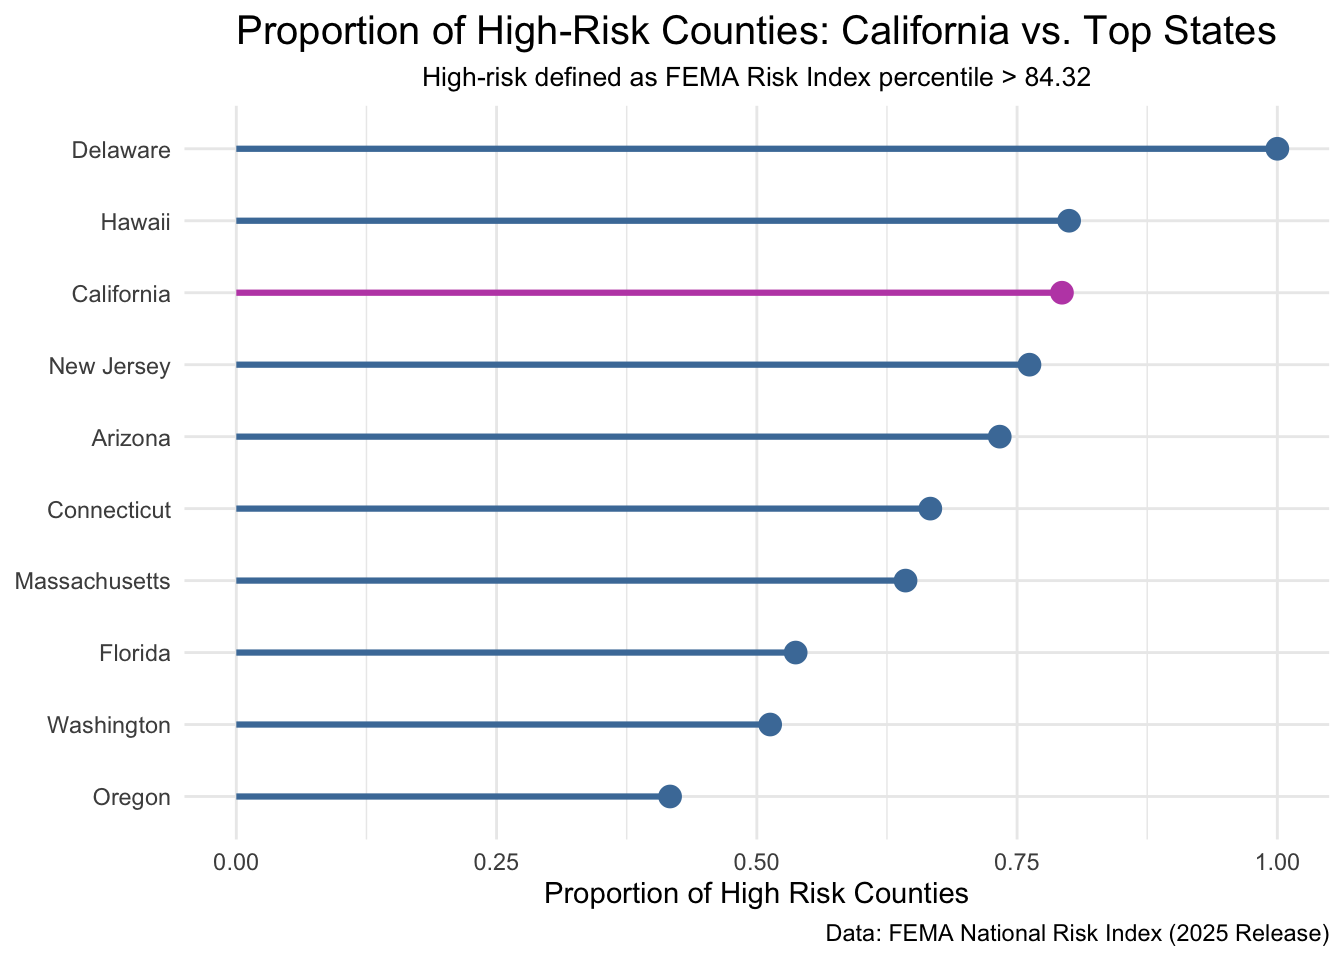
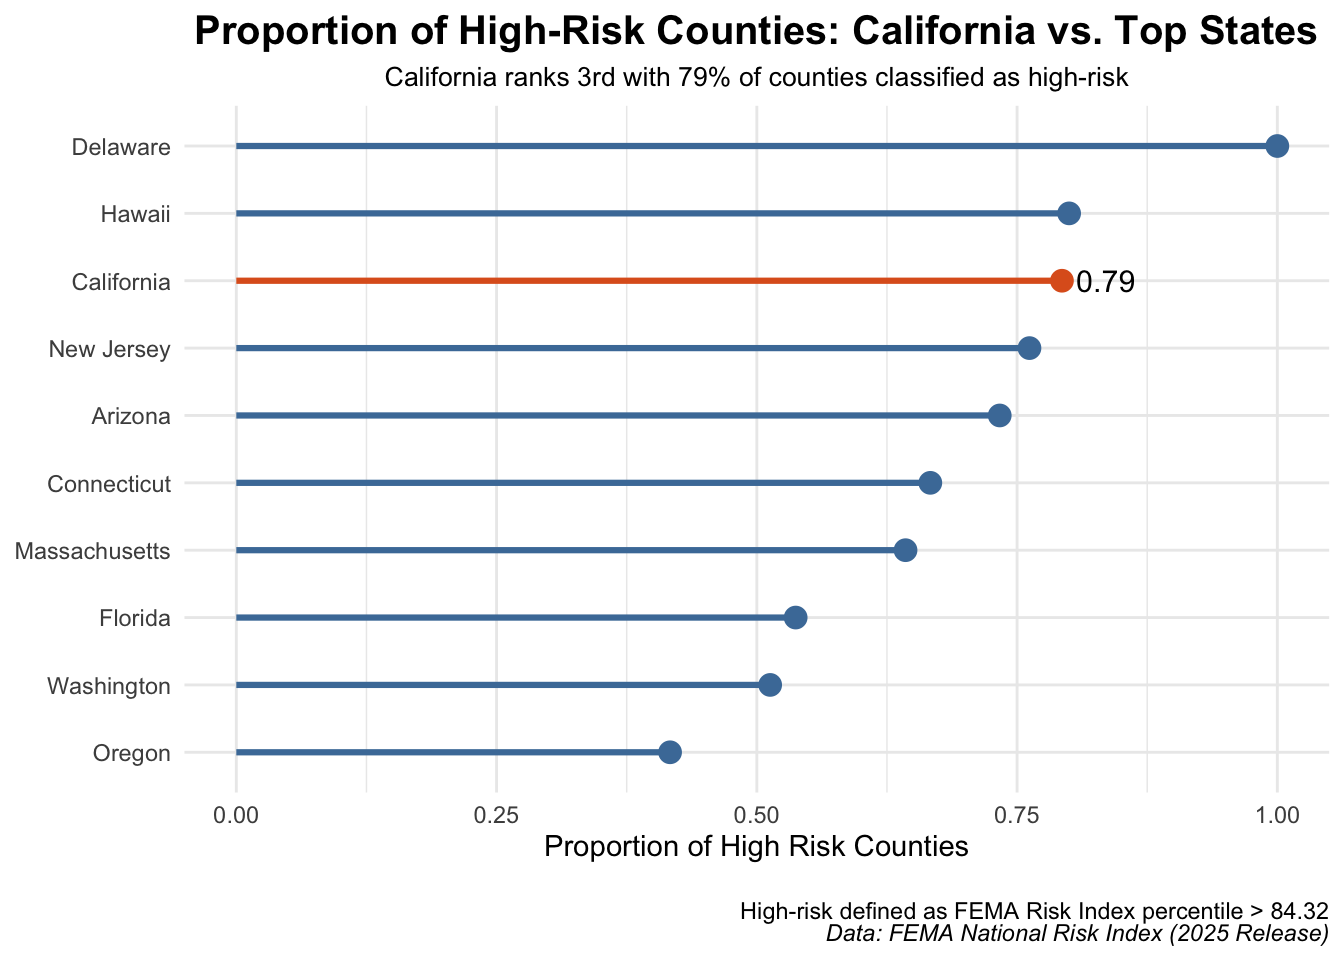
Remove DS store.

diff --git a/HW2.html b/HW2.html
@@ -130,42 +130,44 @@ pre > code.sourceCode > span > a:first-child::before { text-decoration: underlin
 <span id="cb1-7"><a href="#cb1-7" aria-hidden="true" tabindex="-1"></a><span class="fu">library</span>(here)</span>
 <span id="cb1-8"><a href="#cb1-8" aria-hidden="true" tabindex="-1"></a><span class="fu">library</span>(ggplot2)</span>
 <span id="cb1-9"><a href="#cb1-9" aria-hidden="true" tabindex="-1"></a><span class="fu">library</span>(janitor)</span>
-<span id="cb1-10"><a href="#cb1-10" aria-hidden="true" tabindex="-1"></a></span>
-<span id="cb1-11"><a href="#cb1-11" aria-hidden="true" tabindex="-1"></a><span class="co">#..........................import data...........................</span></span>
-<span id="cb1-12"><a href="#cb1-12" aria-hidden="true" tabindex="-1"></a> nri_df <span class="ot">&lt;-</span> <span class="fu">read_csv</span>(here<span class="sc">::</span><span class="fu">here</span>(<span class="st">"data"</span>, <span class="st">"National_Risk_Index_Counties_807384124455672111.csv"</span>)) <span class="sc">%&gt;%</span> </span>
-<span id="cb1-13"><a href="#cb1-13" aria-hidden="true" tabindex="-1"></a>   <span class="fu">clean_names</span>()</span>
-<span id="cb1-14"><a href="#cb1-14" aria-hidden="true" tabindex="-1"></a> </span>
-<span id="cb1-15"><a href="#cb1-15" aria-hidden="true" tabindex="-1"></a></span>
-<span id="cb1-16"><a href="#cb1-16" aria-hidden="true" tabindex="-1"></a><span class="do">##~~~~~~~~~~~~~~~~~~~~~~~~~~~~~~~~~~~~~~~~~~~~~~~~~~~~~~~~~~~~~~~~~~~~~~~~~~~~~~</span></span>
-<span id="cb1-17"><a href="#cb1-17" aria-hidden="true" tabindex="-1"></a><span class="do">##                            wrangle nri data                         </span></span>
+<span id="cb1-10"><a href="#cb1-10" aria-hidden="true" tabindex="-1"></a><span class="fu">library</span>(ARTofR)</span>
+<span id="cb1-11"><a href="#cb1-11" aria-hidden="true" tabindex="-1"></a><span class="fu">library</span>(ggtext)</span>
+<span id="cb1-12"><a href="#cb1-12" aria-hidden="true" tabindex="-1"></a></span>
+<span id="cb1-13"><a href="#cb1-13" aria-hidden="true" tabindex="-1"></a><span class="co">#..........................import data...........................</span></span>
+<span id="cb1-14"><a href="#cb1-14" aria-hidden="true" tabindex="-1"></a> nri_df <span class="ot">&lt;-</span> <span class="fu">read_csv</span>(here<span class="sc">::</span><span class="fu">here</span>(<span class="st">"data"</span>, <span class="st">"National_Risk_Index_Counties_807384124455672111.csv"</span>)) <span class="sc">%&gt;%</span> </span>
+<span id="cb1-15"><a href="#cb1-15" aria-hidden="true" tabindex="-1"></a>   <span class="fu">clean_names</span>()</span>
+<span id="cb1-16"><a href="#cb1-16" aria-hidden="true" tabindex="-1"></a> </span>
+<span id="cb1-17"><a href="#cb1-17" aria-hidden="true" tabindex="-1"></a></span>
 <span id="cb1-18"><a href="#cb1-18" aria-hidden="true" tabindex="-1"></a><span class="do">##~~~~~~~~~~~~~~~~~~~~~~~~~~~~~~~~~~~~~~~~~~~~~~~~~~~~~~~~~~~~~~~~~~~~~~~~~~~~~~</span></span>
-<span id="cb1-19"><a href="#cb1-19" aria-hidden="true" tabindex="-1"></a></span>
-<span id="cb1-20"><a href="#cb1-20" aria-hidden="true" tabindex="-1"></a> nri_2 <span class="ot">&lt;-</span> nri_df <span class="sc">%&gt;%</span></span>
-<span id="cb1-21"><a href="#cb1-21" aria-hidden="true" tabindex="-1"></a>   <span class="co"># Filter for only US states</span></span>
-<span id="cb1-22"><a href="#cb1-22" aria-hidden="true" tabindex="-1"></a>   <span class="fu">filter</span>(<span class="sc">!</span>state_name <span class="sc">%in%</span> <span class="fu">c</span>(</span>
-<span id="cb1-23"><a href="#cb1-23" aria-hidden="true" tabindex="-1"></a>       <span class="st">"Puerto Rico"</span>,</span>
-<span id="cb1-24"><a href="#cb1-24" aria-hidden="true" tabindex="-1"></a>       <span class="st">"Guam"</span>,</span>
-<span id="cb1-25"><a href="#cb1-25" aria-hidden="true" tabindex="-1"></a>       <span class="st">"Virgin Islands"</span>,</span>
-<span id="cb1-26"><a href="#cb1-26" aria-hidden="true" tabindex="-1"></a>       <span class="st">"Northern Mariana Islands"</span>,</span>
-<span id="cb1-27"><a href="#cb1-27" aria-hidden="true" tabindex="-1"></a>       <span class="st">"American Samoa"</span>,</span>
-<span id="cb1-28"><a href="#cb1-28" aria-hidden="true" tabindex="-1"></a>       <span class="st">"District of Columbia"</span></span>
-<span id="cb1-29"><a href="#cb1-29" aria-hidden="true" tabindex="-1"></a>     )</span>
-<span id="cb1-30"><a href="#cb1-30" aria-hidden="true" tabindex="-1"></a>   ) <span class="sc">%&gt;%</span></span>
-<span id="cb1-31"><a href="#cb1-31" aria-hidden="true" tabindex="-1"></a>   <span class="co"># Group by state</span></span>
-<span id="cb1-32"><a href="#cb1-32" aria-hidden="true" tabindex="-1"></a>   <span class="fu">group_by</span>(state_name) <span class="sc">%&gt;%</span></span>
-<span id="cb1-33"><a href="#cb1-33" aria-hidden="true" tabindex="-1"></a>   <span class="co"># Count the total number of counties</span></span>
-<span id="cb1-34"><a href="#cb1-34" aria-hidden="true" tabindex="-1"></a>   <span class="fu">summarize</span>(</span>
-<span id="cb1-35"><a href="#cb1-35" aria-hidden="true" tabindex="-1"></a>     <span class="at">total_counties =</span> <span class="fu">n</span>(),</span>
-<span id="cb1-36"><a href="#cb1-36" aria-hidden="true" tabindex="-1"></a>     <span class="co"># Sum the counties considered high risk (percentile &gt; 84.32)</span></span>
-<span id="cb1-37"><a href="#cb1-37" aria-hidden="true" tabindex="-1"></a>     <span class="at">high_risk_counties =</span> <span class="fu">sum</span>(</span>
-<span id="cb1-38"><a href="#cb1-38" aria-hidden="true" tabindex="-1"></a>       national_risk_index_state_percentile_composite <span class="sc">&gt;</span> <span class="fl">84.32</span>,</span>
-<span id="cb1-39"><a href="#cb1-39" aria-hidden="true" tabindex="-1"></a>       <span class="at">na.rm =</span> <span class="cn">TRUE</span> <span class="co"># remove Nas</span></span>
-<span id="cb1-40"><a href="#cb1-40" aria-hidden="true" tabindex="-1"></a>     ),</span>
-<span id="cb1-41"><a href="#cb1-41" aria-hidden="true" tabindex="-1"></a>     <span class="co"># Find the proportion of high risk in each county</span></span>
-<span id="cb1-42"><a href="#cb1-42" aria-hidden="true" tabindex="-1"></a>     <span class="at">prop_high_risk_counties =</span> high_risk_counties <span class="sc">/</span> total_counties</span>
-<span id="cb1-43"><a href="#cb1-43" aria-hidden="true" tabindex="-1"></a>   ) <span class="sc">%&gt;%</span></span>
-<span id="cb1-44"><a href="#cb1-44" aria-hidden="true" tabindex="-1"></a>   <span class="co"># Create boolean column for data visualizing later </span></span>
-<span id="cb1-45"><a href="#cb1-45" aria-hidden="true" tabindex="-1"></a>   <span class="fu">mutate</span>(<span class="at">ca_true_false =</span> state_name <span class="sc">==</span> <span class="st">"California"</span>)</span></code></pre></div><button title="Copy to Clipboard" class="code-copy-button"><i class="bi"></i></button></div>
+<span id="cb1-19"><a href="#cb1-19" aria-hidden="true" tabindex="-1"></a><span class="do">##                            wrangle nri data                         </span></span>
+<span id="cb1-20"><a href="#cb1-20" aria-hidden="true" tabindex="-1"></a><span class="do">##~~~~~~~~~~~~~~~~~~~~~~~~~~~~~~~~~~~~~~~~~~~~~~~~~~~~~~~~~~~~~~~~~~~~~~~~~~~~~~</span></span>
+<span id="cb1-21"><a href="#cb1-21" aria-hidden="true" tabindex="-1"></a></span>
+<span id="cb1-22"><a href="#cb1-22" aria-hidden="true" tabindex="-1"></a> nri_2 <span class="ot">&lt;-</span> nri_df <span class="sc">%&gt;%</span></span>
+<span id="cb1-23"><a href="#cb1-23" aria-hidden="true" tabindex="-1"></a>   <span class="co"># Filter for only US states</span></span>
+<span id="cb1-24"><a href="#cb1-24" aria-hidden="true" tabindex="-1"></a>   <span class="fu">filter</span>(<span class="sc">!</span>state_name <span class="sc">%in%</span> <span class="fu">c</span>(</span>
+<span id="cb1-25"><a href="#cb1-25" aria-hidden="true" tabindex="-1"></a>       <span class="st">"Puerto Rico"</span>,</span>
+<span id="cb1-26"><a href="#cb1-26" aria-hidden="true" tabindex="-1"></a>       <span class="st">"Guam"</span>,</span>
+<span id="cb1-27"><a href="#cb1-27" aria-hidden="true" tabindex="-1"></a>       <span class="st">"Virgin Islands"</span>,</span>
+<span id="cb1-28"><a href="#cb1-28" aria-hidden="true" tabindex="-1"></a>       <span class="st">"Northern Mariana Islands"</span>,</span>
+<span id="cb1-29"><a href="#cb1-29" aria-hidden="true" tabindex="-1"></a>       <span class="st">"American Samoa"</span>,</span>
+<span id="cb1-30"><a href="#cb1-30" aria-hidden="true" tabindex="-1"></a>       <span class="st">"District of Columbia"</span></span>
+<span id="cb1-31"><a href="#cb1-31" aria-hidden="true" tabindex="-1"></a>     )</span>
+<span id="cb1-32"><a href="#cb1-32" aria-hidden="true" tabindex="-1"></a>   ) <span class="sc">%&gt;%</span></span>
+<span id="cb1-33"><a href="#cb1-33" aria-hidden="true" tabindex="-1"></a>   <span class="co"># Group by state</span></span>
+<span id="cb1-34"><a href="#cb1-34" aria-hidden="true" tabindex="-1"></a>   <span class="fu">group_by</span>(state_name) <span class="sc">%&gt;%</span></span>
+<span id="cb1-35"><a href="#cb1-35" aria-hidden="true" tabindex="-1"></a>   <span class="co"># Count the total number of counties</span></span>
+<span id="cb1-36"><a href="#cb1-36" aria-hidden="true" tabindex="-1"></a>   <span class="fu">summarize</span>(</span>
+<span id="cb1-37"><a href="#cb1-37" aria-hidden="true" tabindex="-1"></a>     <span class="at">total_counties =</span> <span class="fu">n</span>(),</span>
+<span id="cb1-38"><a href="#cb1-38" aria-hidden="true" tabindex="-1"></a>     <span class="co"># Sum the counties considered high risk (percentile &gt; 84.32)</span></span>
+<span id="cb1-39"><a href="#cb1-39" aria-hidden="true" tabindex="-1"></a>     <span class="at">high_risk_counties =</span> <span class="fu">sum</span>(</span>
+<span id="cb1-40"><a href="#cb1-40" aria-hidden="true" tabindex="-1"></a>       national_risk_index_state_percentile_composite <span class="sc">&gt;</span> <span class="fl">84.32</span>,</span>
+<span id="cb1-41"><a href="#cb1-41" aria-hidden="true" tabindex="-1"></a>       <span class="at">na.rm =</span> <span class="cn">TRUE</span> <span class="co"># remove Nas</span></span>
+<span id="cb1-42"><a href="#cb1-42" aria-hidden="true" tabindex="-1"></a>     ),</span>
+<span id="cb1-43"><a href="#cb1-43" aria-hidden="true" tabindex="-1"></a>     <span class="co"># Find the proportion of high risk in each county</span></span>
+<span id="cb1-44"><a href="#cb1-44" aria-hidden="true" tabindex="-1"></a>     <span class="at">prop_high_risk_counties =</span> high_risk_counties <span class="sc">/</span> total_counties</span>
+<span id="cb1-45"><a href="#cb1-45" aria-hidden="true" tabindex="-1"></a>   ) <span class="sc">%&gt;%</span></span>
+<span id="cb1-46"><a href="#cb1-46" aria-hidden="true" tabindex="-1"></a>   <span class="co"># Create boolean column for data visualizing later </span></span>
+<span id="cb1-47"><a href="#cb1-47" aria-hidden="true" tabindex="-1"></a>   <span class="fu">mutate</span>(<span class="at">ca_true_false =</span> state_name <span class="sc">==</span> <span class="st">"California"</span>)</span></code></pre></div><button title="Copy to Clipboard" class="code-copy-button"><i class="bi"></i></button></div>
 </div>
 </section>
 <section id="build-visualization" class="level2">
@@ -184,24 +186,26 @@ pre > code.sourceCode > span > a:first-child::before { text-decoration: underlin
 <span id="cb2-11"><a href="#cb2-11" aria-hidden="true" tabindex="-1"></a>  <span class="co"># Lolipop graph = line + point </span></span>
 <span id="cb2-12"><a href="#cb2-12" aria-hidden="true" tabindex="-1"></a>  <span class="fu">geom_linerange</span>(<span class="fu">aes</span>(<span class="at">xmin =</span> <span class="dv">0</span>, <span class="at">xmax =</span> prop_high_risk_counties), <span class="at">size =</span> <span class="fl">1.1</span>) <span class="sc">+</span> </span>
 <span id="cb2-13"><a href="#cb2-13" aria-hidden="true" tabindex="-1"></a>  <span class="fu">geom_point</span>(<span class="at">size =</span> <span class="fl">3.5</span>) <span class="sc">+</span></span>
-<span id="cb2-14"><a href="#cb2-14" aria-hidden="true" tabindex="-1"></a>  <span class="co"># Adjust colors for California ("TRUE") and non-California states ("FALSE")</span></span>
-<span id="cb2-15"><a href="#cb2-15" aria-hidden="true" tabindex="-1"></a>  <span class="fu">scale_color_manual</span>(<span class="at">values =</span> <span class="fu">c</span>(<span class="st">"FALSE"</span> <span class="ot">=</span> <span class="st">"#4A7BA7"</span>, <span class="st">"TRUE"</span> <span class="ot">=</span> <span class="st">"#bf4eb4"</span>)) <span class="sc">+</span></span>
-<span id="cb2-16"><a href="#cb2-16" aria-hidden="true" tabindex="-1"></a>  <span class="co"># Add labels </span></span>
-<span id="cb2-17"><a href="#cb2-17" aria-hidden="true" tabindex="-1"></a>  <span class="fu">labs</span>(<span class="at">title =</span> <span class="st">"Proportion of High-Risk Counties: California vs. Top States"</span>, </span>
-<span id="cb2-18"><a href="#cb2-18" aria-hidden="true" tabindex="-1"></a>       <span class="at">x =</span> <span class="st">"Proportion of High Risk Counties"</span>, </span>
-<span id="cb2-19"><a href="#cb2-19" aria-hidden="true" tabindex="-1"></a>       <span class="at">subtitle =</span> <span class="st">"High-risk defined as FEMA Risk Index percentile &gt; 84.32"</span>, </span>
-<span id="cb2-20"><a href="#cb2-20" aria-hidden="true" tabindex="-1"></a>       <span class="at">caption =</span> <span class="st">"Data: FEMA National Risk Index (2025 Release)"</span>) <span class="sc">+</span></span>
-<span id="cb2-21"><a href="#cb2-21" aria-hidden="true" tabindex="-1"></a>  <span class="fu">theme_minimal</span>() <span class="sc">+</span></span>
-<span id="cb2-22"><a href="#cb2-22" aria-hidden="true" tabindex="-1"></a>  <span class="co"># Theme adjustments </span></span>
-<span id="cb2-23"><a href="#cb2-23" aria-hidden="true" tabindex="-1"></a> <span class="fu">theme</span>(<span class="at">axis.title.y =</span> <span class="fu">element_blank</span>(), <span class="co"># Remove y label </span></span>
-<span id="cb2-24"><a href="#cb2-24" aria-hidden="true" tabindex="-1"></a>        <span class="at">legend.title =</span> <span class="fu">element_blank</span>(), </span>
-<span id="cb2-25"><a href="#cb2-25" aria-hidden="true" tabindex="-1"></a>        <span class="at">legend.position =</span> <span class="st">"none"</span>, <span class="co"># Remove legend </span></span>
-<span id="cb2-26"><a href="#cb2-26" aria-hidden="true" tabindex="-1"></a>        <span class="at">plot.title =</span> <span class="fu">element_text</span>(<span class="at">hjust =</span> <span class="fl">0.5</span>, <span class="at">size =</span> <span class="dv">15</span>, <span class="at">lwd =</span> <span class="fl">1.5</span>), </span>
-<span id="cb2-27"><a href="#cb2-27" aria-hidden="true" tabindex="-1"></a>       <span class="at">plot.subtitle =</span> <span class="fu">element_text</span>(<span class="at">hjust =</span> <span class="fl">0.5</span>, <span class="at">size =</span> <span class="dv">10</span>)</span>
-<span id="cb2-28"><a href="#cb2-28" aria-hidden="true" tabindex="-1"></a>       </span>
-<span id="cb2-29"><a href="#cb2-29" aria-hidden="true" tabindex="-1"></a>       ) </span>
-<span id="cb2-30"><a href="#cb2-30" aria-hidden="true" tabindex="-1"></a></span>
-<span id="cb2-31"><a href="#cb2-31" aria-hidden="true" tabindex="-1"></a>ca_prop_plot</span></code></pre></div><button title="Copy to Clipboard" class="code-copy-button"><i class="bi"></i></button></div>
+<span id="cb2-14"><a href="#cb2-14" aria-hidden="true" tabindex="-1"></a>  <span class="fu">annotate</span>(<span class="st">"text"</span>, <span class="at">x =</span> <span class="fl">0.79</span>, <span class="at">y =</span> <span class="st">"California"</span>, <span class="at">label =</span> <span class="st">"0.79"</span>, <span class="at">hjust =</span> <span class="sc">-</span><span class="fl">0.3</span>, <span class="at">size =</span> <span class="dv">4</span>)<span class="sc">+</span></span>
+<span id="cb2-15"><a href="#cb2-15" aria-hidden="true" tabindex="-1"></a>  <span class="co"># Adjust colors for California ("TRUE") and non-California states ("FALSE")</span></span>
+<span id="cb2-16"><a href="#cb2-16" aria-hidden="true" tabindex="-1"></a>  <span class="fu">scale_color_manual</span>(<span class="at">values =</span> <span class="fu">c</span>(<span class="st">"FALSE"</span> <span class="ot">=</span> <span class="st">"#4A7BA7"</span>, <span class="st">"TRUE"</span> <span class="ot">=</span> <span class="st">"#de6021"</span>)) <span class="sc">+</span></span>
+<span id="cb2-17"><a href="#cb2-17" aria-hidden="true" tabindex="-1"></a>  <span class="co"># Add labels </span></span>
+<span id="cb2-18"><a href="#cb2-18" aria-hidden="true" tabindex="-1"></a>  <span class="fu">labs</span>(<span class="at">title =</span> <span class="st">"Proportion of High-Risk Counties: California vs. Top States"</span>, </span>
+<span id="cb2-19"><a href="#cb2-19" aria-hidden="true" tabindex="-1"></a>     <span class="at">subtitle =</span> <span class="st">"California ranks 3rd with 79% of counties classified as high-risk"</span>,</span>
+<span id="cb2-20"><a href="#cb2-20" aria-hidden="true" tabindex="-1"></a>     <span class="at">x =</span> <span class="st">"Proportion of High Risk Counties"</span>, </span>
+<span id="cb2-21"><a href="#cb2-21" aria-hidden="true" tabindex="-1"></a>     <span class="at">caption =</span> <span class="st">"High-risk defined as FEMA Risk Index percentile &amp;gt; 84.32&lt;br&gt;*Data: FEMA National Risk Index (2025 Release)*"</span>) <span class="sc">+</span></span>
+<span id="cb2-22"><a href="#cb2-22" aria-hidden="true" tabindex="-1"></a>  <span class="fu">theme_minimal</span>() <span class="sc">+</span></span>
+<span id="cb2-23"><a href="#cb2-23" aria-hidden="true" tabindex="-1"></a>  <span class="co"># Theme adjustments </span></span>
+<span id="cb2-24"><a href="#cb2-24" aria-hidden="true" tabindex="-1"></a> <span class="fu">theme</span>(<span class="at">axis.title.y =</span> <span class="fu">element_blank</span>(), <span class="co"># Remove y label </span></span>
+<span id="cb2-25"><a href="#cb2-25" aria-hidden="true" tabindex="-1"></a>        <span class="at">legend.title =</span> <span class="fu">element_blank</span>(), </span>
+<span id="cb2-26"><a href="#cb2-26" aria-hidden="true" tabindex="-1"></a>        <span class="at">legend.position =</span> <span class="st">"none"</span>, <span class="co"># Remove legend </span></span>
+<span id="cb2-27"><a href="#cb2-27" aria-hidden="true" tabindex="-1"></a>        <span class="at">plot.title =</span> <span class="fu">element_text</span>(<span class="at">hjust =</span> <span class="fl">0.5</span>, <span class="at">size =</span> <span class="dv">15</span>, <span class="at">lwd =</span> <span class="fl">1.5</span>, <span class="at">face =</span> <span class="st">"bold"</span>), </span>
+<span id="cb2-28"><a href="#cb2-28" aria-hidden="true" tabindex="-1"></a>       <span class="at">plot.subtitle =</span> <span class="fu">element_text</span>(<span class="at">hjust =</span> <span class="fl">0.5</span>, <span class="at">size =</span> <span class="dv">10</span>),</span>
+<span id="cb2-29"><a href="#cb2-29" aria-hidden="true" tabindex="-1"></a>       <span class="at">plot.caption =</span> <span class="fu">element_markdown</span>(<span class="at">margin =</span> <span class="fu">margin</span>(<span class="at">t =</span> <span class="dv">15</span>, <span class="at">unit =</span> <span class="st">"pt"</span>)</span>
+<span id="cb2-30"><a href="#cb2-30" aria-hidden="true" tabindex="-1"></a>       )</span>
+<span id="cb2-31"><a href="#cb2-31" aria-hidden="true" tabindex="-1"></a>)</span>
+<span id="cb2-32"><a href="#cb2-32" aria-hidden="true" tabindex="-1"></a></span>
+<span id="cb2-33"><a href="#cb2-33" aria-hidden="true" tabindex="-1"></a>ca_prop_plot</span></code></pre></div><button title="Copy to Clipboard" class="code-copy-button"><i class="bi"></i></button></div>
 <div class="cell-output-display">
 <div>
 <figure class="figure">
@@ -218,10 +222,10 @@ pre > code.sourceCode > span > a:first-child::before { text-decoration: underlin
 <p><strong>1. What are your variables of interest and what kinds of data (e.g.&nbsp;numeric, categorical, ordered, etc.) are they (a bullet point list is fine)?</strong></p>
 <p>My variables of interest were the <code>total_counties</code> (categorical), <code>national_risk_index_state_percentile_composite</code> (numeric), and <code>state_name</code>(categorical). I was interested in the <code>national_risk_index_state_percentile_composite</code> because of the background reading about FEMA’s National Risk Index (NRI) where it was mentioned that a percentile of 84.32 means that the county has higher risk than 84.32% of counties nationwide. I wrangled the data to produce a variable called <code>prop_high_risk_counties</code> which is the proportion of counties within the state that are high risk.</p>
 <p><strong>2. How did you decide which type of graphic form was best suited for answering the question? What alternative graphic forms could you have used instead? Why did you settle on this particular graphic form?</strong></p>
-<p>I originally began with a bar chart to represent this data, however I chose a lollipop graph because it draws your eyes to the <code>geom_point</code> where you can read the proportion values clearly. I chose to represent</p>
+<p>I originally began with a bar chart to represent this data, however I chose a lollipop graph because it draws your eyes to the <code>geom_point</code> where you can read the proportion values clearly. I chose to represent the data because it reduces the visual clutter and summarizes the main findings clearly while showing the ranking clearly. I decided to highlight the actual proportion of California counties at risk to further highlight that California is the focus of this plot.</p>
 <p><strong>3. Summarize your main finding in no more than two sentences.</strong> This graph shows that among the top 10 states, California ranks third with 79% of the state’s counties classified as high-risk by FEMA’s National Risk Index.</p>
 <p><strong>4. What modifications did you make to this visualization to make it more easily readable?</strong> In order to make the visualization more readable, I added a subtitle to help interpret the proportion values. In addition, I decided to highlight the California lollipop line to show that the central state is California in this analysis. I decided to create a true/false column instead of using gghighlight because I wanted to keep the other state’s lines prominent for this visualization.</p>
-<p><strong>5. Is there anything you wanted to implement, but didn’t know how? If so, please describe.</strong> I wanted to implement a way to add a an annotattion of the California proportion value that is <em>only</em> on the California line and not the rest of the states. In addition, I wanted to change the color of California in the state y axes.</p>
+<p><strong>5. Is there anything you wanted to implement, but didn’t know how? If so, please describe.</strong> I wanted to change the color of California in the state y axes and perhaps in the title.</p>
 </section>
 </section>
 
